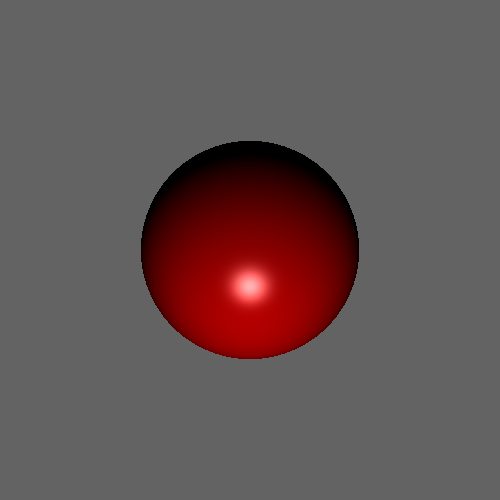
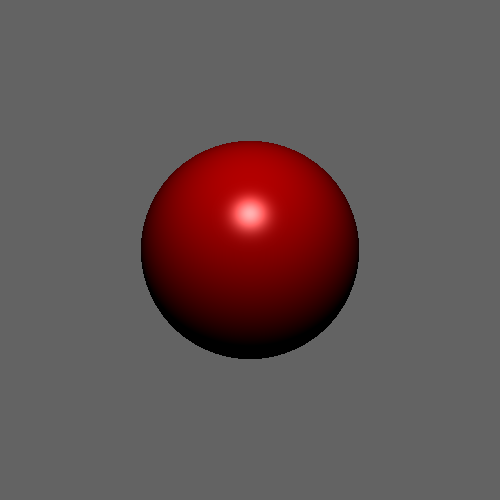
cg1-tarefa-2: adiciona css

Changed region(s): [[0.27, 0.51, 0.72, 0.72], [0.27, 0.27, 0.72, 0.48]]

diff --git a/computacao-grafica-1/atividades/tarefa-02/index.html b/computacao-grafica-1/atividades/tarefa-02/index.html
@@ -4,102 +4,65 @@
     <meta charset="UTF-8">
     <meta name="viewport" content="width=device-width, initial-scale=1.0">
     <title>Esfera com RayCasting</title>
-    <style>
-        /* Centraliza conteúdo: */ body { display: flex;flex-direction: column; justify-content: center; align-items: center; height: 100vh; margin: 0; }
-        /* Define borda para o Canvas: */ canvas { border: 1px solid black; }
-    </style>
+    <link rel="stylesheet" href="css/style.css">
 </head>
 <body>
+    <div>
+        <p>Posição da Esfera:</p>
+        <div class="container">
+            <h2>X</h2>
+            <div class="input-wrapper">
+                <p>Esquerda</p>
+                <input type="range" id="sphereX" name="sphereX" min="-300" max="300" step="1" />
+                <p>Direita</p>
+            </div>
+        </div>
+        <div class="container">
+            <h2>Y</h2>
+            <div class="input-wrapper">
+                <p>Baixo</p>
+                <input type="range" id="sphereY" name="sphereY" min="-300" max="300" step="1" />
+                <p>Cima</p>
+            </div>
+        </div>
+        <div class="container">
+            <h2>Z</h2>
+            <div class="input-wrapper">
+                <p>Distante</p>
+                <input type="range" id="sphereZ" name="sphereZ" min="-300" max="300" step="1" />
+                <p>Próximo</p>
+            </div>
+        </div>
+    </div>
     <canvas id="canvas"></canvas>
-    <p>Use as setas do teclado para mover a esfera.</p>
-    <p>Use as teclas W, A, S, D para mover a fonte de luz.</p>
+    <div>
+        <p>Posição da Fonte de Luz:</p>
+        <div class="container">
+            <h2>X</h2>
+            <div class="input-wrapper">
+                <p>Esquerda</p>
+                <input type="range" id="lightX" name="lightX" min="-300" max="300" step="1" />
+                <p>Direita</p>
+            </div>
+        </div>
+        <div class="container">
+            <h2>Y</h2>
+            <div class="input-wrapper">
+                <p>Baixo</p>
+                <input type="range" id="lightY" name="lightY" min="-300" max="300" step="1" />
+                <p>Cima</p>
+            </div>
+        </div>
+        <div class="container">
+            <h2>Z</h2>
+            <div class="input-wrapper">
+                <p>Distante</p>
+                <input type="range" id="lightZ" name="lightZ" min="-300" max="300" step="1" />
+                <p>Próximo</p>
+            </div>
+        </div>
+    </div>
 </body>
 <script src="js/renderer.js"></script>
-<script>
-    let sphereCenterPosition = [0, 0, -100] // centímetros
-    let lightSourcePosition = [0, 50, 0] // centímetros
-    const windowDepth = 30 // centímetros
-    const params = {
-        // Tela:
-            canvasWidth: 500, // pixels
-            canvasHeight: 500, // pixels
-            nCol: 500, // número de colunas
-            nRow: 500, // número de linhas
-        // Esfera:
-            sphereCenterPosition,
-            sphereRadius: 40, // centímetros
-            sphereDiffuseReflection: [1.0, 0.0, 0.0], // cor = vermelho
-            sphereSpecularReflection: [1.0, 1.0, 1.0], // cor = branco
-            sphereShininess: 20.0, // brilho
-        // Janela:
-            windowWidth: 60, // centímetros
-            windowHeight: 60, // centímetros
-            windowDepth, // centímetros
-            windowPosition: [0, 0, -windowDepth], // centímetros
-        // Origem do raio:
-            rayOrigin: [0, 0, 0], // centímetros
-        // Cores:
-            backgroundColor: [0.39, 0.39, 0.39], // cinza
-        // Luminosidade:
-            lightSourcePosition,
-            lightSourceIntensity: [0.7, 0.7, 0.7], // cor = branco
-    }
-
-    const vertices = [
-        // Dois triângulos
-        // x,  y
-          -1, -1,
-           1, -1,
-          -1,  1,
-          -1,  1,
-           1, -1,
-           1,  1,
-    ]
-
-    var renderer = new Renderer(params.canvasWidth, params.canvasHeight)
-    renderer.render(vertices, params)
-</script>
-<script>
-    // Movimentação da esfera
-    document.addEventListener('keydown', (event) => {
-        const keyName = event.key;
-        const [X, Y, Z] = [0, 1, 2]
-
-        switch (keyName) {
-            case 'ArrowUp':
-                // Move a esfera para longe
-                sphereCenterPosition[Z] -= 10
-                break
-            case 'ArrowDown':
-                // Move a esfera para perto
-                sphereCenterPosition[Z] += 10
-                break
-            case 'ArrowLeft':
-                // Move a esfera para a esquerda
-                sphereCenterPosition[X] -= 10
-                break
-            case 'ArrowRight':
-                // Move a esfera para a direita
-                sphereCenterPosition[X] += 10
-                break
-            case 'w':
-                // Move a fonte de luz para longe
-                lightSourcePosition[Z] -= 10
-                break
-            case 's':
-                lightSourcePosition[Z] += 10
-                break
-            case 'a':
-                lightSourcePosition[X] -= 10
-                break
-            case 'd':
-                lightSourcePosition[X] += 10
-                break
-            default:
-                return
-        }
-
-        renderer.render(vertices, params)
-    })
-</script>
+<script src="js/index.js"></script>
 </html>

diff --git a/computacao-grafica-1/atividades/tarefa-02/js/index.js b/computacao-grafica-1/atividades/tarefa-02/js/index.js
@@ -1,0 +1,89 @@
+// # Configuração da Cena:
+
+let sphereCenterPosition = [0, 0, -100] // centímetros
+let lightSourcePosition = [0, 50, 0] // centímetros
+const windowDepth = 30 // centímetros
+const params = {
+    // Tela:
+        canvasWidth: 500, // pixels
+        canvasHeight: 500, // pixels
+        nCol: 500, // número de colunas
+        nRow: 500, // número de linhas
+    // Esfera:
+        sphereCenterPosition,
+        sphereRadius: 40, // centímetros
+        sphereDiffuseReflection: [1.0, 0.0, 0.0], // cor = vermelho
+        sphereSpecularReflection: [1.0, 1.0, 1.0], // cor = branco
+        sphereShininess: 20.0, // brilho
+    // Janela:
+        windowWidth: 60, // centímetros
+        windowHeight: 60, // centímetros
+        windowDepth, // centímetros
+        windowPosition: [0, 0, -windowDepth], // centímetros
+    // Origem do raio:
+        rayOrigin: [0, 0, 0], // centímetros
+    // Cores:
+        backgroundColor: [0.39, 0.39, 0.39], // cinza
+    // Luminosidade:
+        lightSourcePosition,
+        lightSourceIntensity: [0.7, 0.7, 0.7], // cor = branco
+}
+
+const vertices = [
+    // Dois triângulos
+    // x,  y
+      -1, -1,
+       1, -1,
+      -1,  1,
+      -1,  1,
+       1, -1,
+       1,  1,
+]
+
+var renderer = new Renderer(params.canvasWidth, params.canvasHeight)
+renderer.render(vertices, params)
+
+// # Interação com a cena:
+
+const [X, Y, Z] = [0, 1, 2]
+
+document.getElementById('sphereX').value = sphereCenterPosition[0]
+document.getElementById('sphereY').value = sphereCenterPosition[1]
+document.getElementById('sphereZ').value = sphereCenterPosition[2]
+document.addEventListener('input', (event) => {
+    const target = event.target
+    const value = parseInt(target.value)
+    switch (target.id) {
+        case 'sphereX':
+            sphereCenterPosition[X] = value
+            break
+        case 'sphereY':
+            sphereCenterPosition[Y] = value
+            break
+        case 'sphereZ':
+            sphereCenterPosition[Z] = value
+            break
+    }
+    renderer.render(vertices, params)
+})
+
+
+document.getElementById('lightX').value = lightSourcePosition[0]
+document.getElementById('lightY').value = lightSourcePosition[1]
+document.getElementById('lightZ').value = lightSourcePosition[2]
+document.addEventListener('input', (event) => {
+    const target = event.target
+    const value = parseInt(target.value)
+    switch (target.id) {
+        case 'lightX':
+            lightSourcePosition[X] = value
+            break
+        case 'lightY':
+            lightSourcePosition[Y] = value
+            break
+        case 'lightZ':
+            lightSourcePosition[Z] = value
+            break
+    }
+    renderer.render(vertices, params)
+})

diff --git a/computacao-grafica-1/atividades/tarefa-02/css/style.css b/computacao-grafica-1/atividades/tarefa-02/css/style.css
@@ -1,0 +1,29 @@
+body {
+    display: flex; gap: 50px; justify-content: center; align-items: center; height: 100vh; margin: 0;
+    background: #0F2027;
+    background: -webkit-linear-gradient(to right, #2C5364, #203A43, #0F2027);
+    background: linear-gradient(to right, #2C5364, #203A43, #0F2027);
+    color: white;
+    font-family: Arial, sans-serif;
+}
+
+canvas {
+    border: 1px solid black;
+    box-shadow: 0 0 10px 5px rgba(0, 0, 0, 0.5);
+}
+
+.container {
+    display: flex;
+    gap: 10px;
+    align-items: center;
+}
+
+.input-wrapper { 
+    display: flex;
+    padding: 0 5px;
+    gap: 10px;
+    box-shadow: 0 0 1rem 0 rgba(0, 0, 0, .2); 
+    border-radius: 5px;
+    background-color: rgba(255, 255, 255, .15);
+    backdrop-filter: blur(5px);
+}
